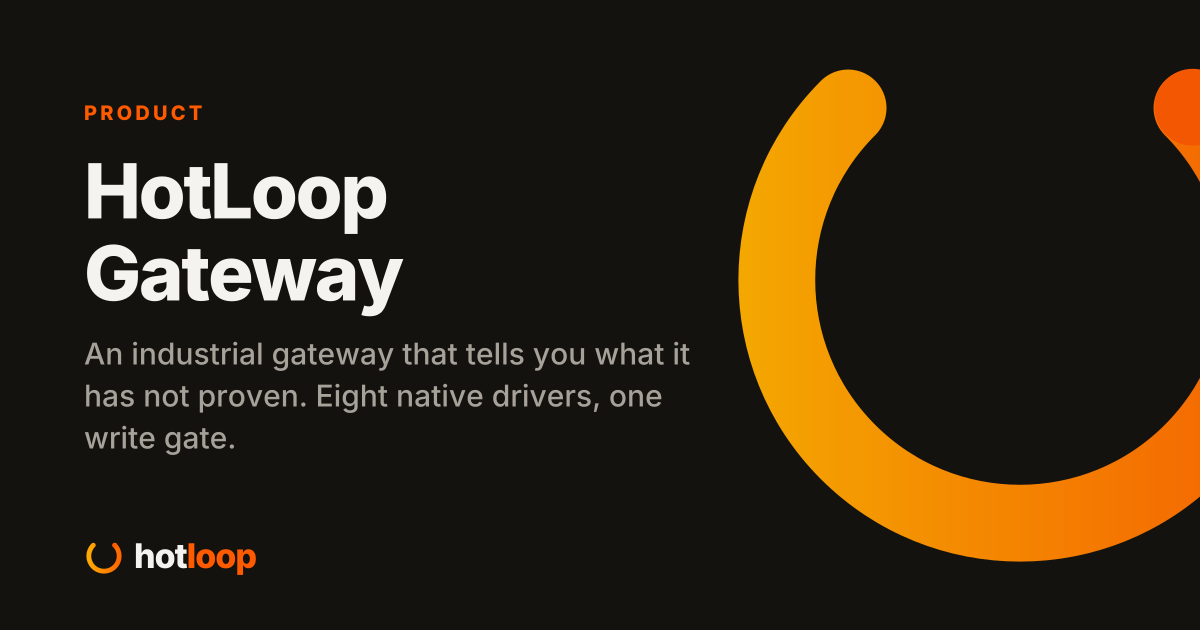
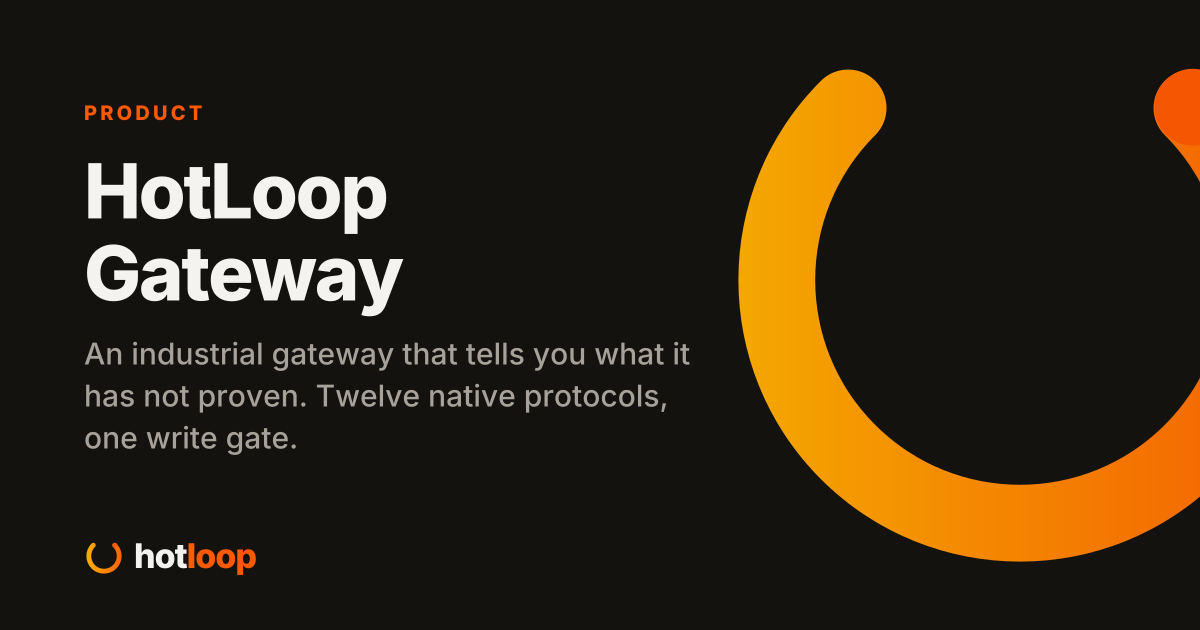
feat(site): core 4.19.8 is out, so the site says so (#54)
The site said 4.18.11. 4.19.4, 4.19.5 and 4.19.8 are the published releases, so each gets a note, and the ones that never published get none. The Gateway page has a 4.18.11 upgrade card for agent writes and scaled tags, CODESYS and OPC UA PubSub join the protocol catalog with what they were and were not proven against, and 4.19.8 being amd64 only is on every product page. IoT and Edge stop calling the current release their first, and the Transmitter page no longer says core's subscriber is not in a release.

Changed region(s): [[0.2467, 0.6032, 0.555, 0.6635], [0.0617, 0.6635, 0.2467, 0.7238]]

diff --git a/src/lib/products.ts b/src/lib/products.ts
@@ -13,7 +13,12 @@
 export type Status = 'released' | 'unverified' | 'main' | 'building' | 'planned';
 
 // The one published version. Change it here when the next release ships.
-export const CURRENT = '4.18.11';
+export const CURRENT = '4.19.8';
+
+// The last release built for every architecture. 4.19.8 is amd64 only, so the arm images on
+// :stable are this one's until the next release, which is a bump that builds them all. Change
+// it here when that bump ships, and drop the amd64-only sentences with it.
+export const LAST_MULTIARCH = '4.19.5';
 
 export const STATUS: Record<Status, { label: string; chip: 'ok' | 'info' | 'warn' | 'none' }> = {
   released: { label: `In ${CURRENT}`, chip: 'ok' },
@@ -117,19 +122,24 @@ export const IOT_FEATURES: Feature[] = [
   { name: 'Dashboards', status: 'released', note: 'A card builder with drag and drop: gauges, numbers, trends, entity lists, write buttons, script and recipe buttons, alarm lists, text, cameras, and a floor plan. Give a dashboard to the roles that need it, or bind it to one physical screen. One layout folds from twelve columns on a panel PC to one on a phone, so nobody ever builds the phone version. A card commands nothing itself, so a button still meets the write gate.' },
   { name: 'ISA-18.2 alarms', status: 'released', note: 'Includes rtn-unack, the alarm that cleared before anyone acknowledged it, so a trip that fixed itself is still there at shift change. Shelving ends, and unshelve brings the alarm back in the state it\'s really in.' },
   { name: 'Notifications', status: 'released', note: 'ntfy, Gotify, Discord (a webhook, or a bot), webhooks, and email. Press Acknowledge on an ntfy push or in the Discord bot and the alarm is acknowledged, signed and single use. Gotify and the Discord webhook are one way. Discord has only met a stand-in, not the real thing.' },
-  { name: 'AI agents (over MCP)', status: 'released', note: 'An agent can read the whole plant and touch only what you armed, through the write gate, and never without a stated reason, which goes in the system log next to the write.' },
+  { name: 'AI agents (over MCP)', status: 'released', note: 'An agent can read the whole plant and touch only what you armed, through the write gate, and never without a stated reason, which goes in the system log next to the write. Agent writes are on since 4.19.4, behind the same master switch as the screen, so with writes off nothing writes. The endpoint always has a token: a bare binary or Quadlet unit makes one at its first start, and hotloop mcp-token prints it.' },
+  { name: 'Writes to scaled tags land right', status: 'released', note: 'Write 55.5 to a tag scaled by 0.1 and 555 goes in the register, where 55 used to. A count the register can\'t hold is refused instead of wrapping, and a recipe with a value that doesn\'t fit is refused whole before its first write. If anyone typed raw counts to work around the old behavior, that now sends ten times too much, so check your scaled tags before you upgrade.' },
   { name: 'MQTT and an embedded broker', status: 'released', note: 'Plain topics with JSON paths, Sparkplug B, and an optional broker in the same process, so one box can be the whole install.' },
   { name: 'The sun', status: 'released', note: 'Sunrise, sunset, dawn, dusk, and the sun\'s height and bearing, worked out on the box from the site\'s latitude and longitude, plus a sun trigger with an offset. A site whose uplink died three weeks ago still turns the yard lights on at dusk.' },
   { name: 'MQTT discovery', status: 'released', note: 'ESPHome, Zigbee2MQTT, Tasmota, and Shelly Gen2 and later show up on their own, as read-only devices, on the embedded broker or any other. Nothing is armed until a person accepts the device and arms each point, so a device announcing itself never earns the right to flip a relay. Proven against recordings of real devices, not yet a bench of them.' },
   { name: 'Network discovery', status: 'released', note: 'mDNS and SSDP announcements are overheard, and DHCP is heard if the deployment allows it. Finds land next to the MQTT devices with what they are and how HotLoop could talk to them. Probing stays off until a network is named, because a port sweep has knocked over PLCs. Nothing is added by itself.' },
   { name: 'Broker logins with rules', status: 'released', note: 'A twelve dollar plug\'s login can\'t publish to the boiler\'s command topic. Logins made in HotLoop carry publish and subscribe rules from a profile, checked on every publish, subscription, and outgoing message. Logins from HOTLOOP_BROKER_USERS are unrestricted, as before.' },
   { name: 'Historian targets', status: 'released', note: 'Every reading also goes to the plant\'s own database: PostgreSQL and TimescaleDB, SQL Server, InfluxDB 2 and 3, MySQL and MariaDB. Same readings, same deadband, same quality. Polling never waits for a target, and one that falls behind catches up from HotLoop\'s own history.' },
+  { name: 'A Kafka event stream', status: 'released', note: 'Readings and the system log go to any broker that speaks the Kafka API, Apache Kafka and Redpanda included, as one more kind of historian target, with TLS and SCRAM-SHA-256, SCRAM-SHA-512 or PLAIN. It is at least once, so a reading can arrive twice after an outage, and events have no catch-up. Proven against Kafka 4.4.0 and Redpanda 26.2.6, not Confluent Cloud, MSK or Event Hubs. The Edge Relay doesn\'t carry it.' },
   { name: 'SQLite or PostgreSQL, your pick', status: 'released', note: 'The database is a setting. A Pi can run any product on a SQLite file with no second container and no 300 MB database image on the SD card. Moving between databases is a backup and a restore.' },
   { name: 'Updates that roll themselves back', status: 'released', note: 'Quadlet boxes follow the stable tag and update themselves, and an update that can\'t pass its healthcheck is rolled back instead of reported as a success. On Helm (Kubernetes) you run the upgrade. Rolling back is only safe because migrations only add.' },
-  { name: 'Every protocol driver', status: 'released', note: 'OPC UA, Modbus, MQTT and Sparkplug B, EtherNet/IP, S7comm, MTConnect, HTTP, SNMP, BACnet/IP, and UniFi. Protocols don\'t split the products, so nobody runs the Gateway just to reach one PLC.' },
+  { name: 'Every protocol driver', status: 'released', note: 'OPC UA, CODESYS, OPC UA PubSub, Modbus, MQTT and Sparkplug B, EtherNet/IP, S7comm, MTConnect, HTTP, SNMP, BACnet/IP, and UniFi. Protocols don\'t split the products, so nobody runs the Gateway just to reach one PLC.' },
+  { name: 'CODESYS, by the names the programmer gave the variables', status: 'released', note: 'A CODESYS runtime is read and written through its own OPC UA server, from the application\'s Symbol Configuration, so a tag is Application.GVL_Line.rTemp and not a node id. A download or a restart reads bad with the reason and comes back with no hands. Proven against a real 4.22.0.0 runtime in a container, including a program of over a hundred thousand variables read in 2.4 seconds. Not run on a physical controller.' },
+  { name: 'OPC UA PubSub over UADP', status: 'released', note: 'A device with the protocol opcua-pubsub listens for a publisher\'s DataSets over UDP, unicast or multicast, and a lost message marks that writer\'s tags uncertain until its next key frame. Proven against open62541 in both directions. Not yet against a CODESYS, Siemens or Beckhoff publisher, over a router, or with message security, which is refused by name.' },
   { name: 'UniFi, read-only', status: 'released', note: 'Devices, ports, PoE, WAN failover, and clients as tags, and a quiet PLC tells you which switch port it\'s on. WAN health comes from the console\'s own checks, so a backup link that\'s been dead for two days reads dead. Read on two real consoles, though a PoE draw above zero has not been seen yet. Nothing writes to a console yet.' },
   { name: 'UniFi screens and events', status: 'released', note: 'An overview with the WAN strip, a topology map that zooms and pinches and is laid out the same way every time, switch faceplates with port traffic traces, clients, networks, and WiFi, one button that makes the usual alarms, and the console\'s event stream so a switch dropping off lands in the logbook in seconds. An agent can ask over MCP for the topology and the latest events. Proven against a lab controller, with touch emulated, and not yet looked at on real gear.' },
   { name: 'UniFi writes', status: 'planned', note: 'Writes through the gate, starting with the locate LED. Then Protect, Access and PDUs, each only after it has run on real gear. Nothing writes to a console today.' },
+  { name: 'Hardware access and hostNetwork', status: 'released', note: 'Every chart takes hostNetwork, off by default, for a pod that has to hear what its node hears, like UDP multicast on the node\'s loopback. Since 4.19.7 the charts also ship with the node\'s USB devices and Bluetooth socket mounted for what plugs in later, which makes the pod root on the node. Three switches turn that off. HotLoop has no Bluetooth, Z-Wave or USB serial code of its own yet, and Zigbee comes through Zigbee2MQTT over MQTT.' },
   { name: 'Backups and restore', status: 'released', note: 'Pure Go over the database connection, in IoT, Edge, and the Gateway. It\'s also how you move between them, so it has to work every time.' },
 ];
 
@@ -138,6 +148,7 @@ export const EDGE_FEATURES: Feature[] = [
   { name: 'Store-and-forward', status: 'released', note: 'A dead link leaves no hole in the historian upstream: it buffers and replays in order, flagged historical. Publishes upstream as a Sparkplug B edge node. Off until you switch edge publishing on.' },
   { name: 'Runs with the WAN dead', status: 'released', note: 'A real Edge was booted with its uplink pointed at a link that eats every packet, and the screen, a write, a script, a recipe, an automation, and an alarm all worked. A box rebooted mid-outage used to crash-loop. The queue holds messages in memory first and uses disk only when the broker stops confirming, replays oldest first, and is capped at 64 MiB by default.' },
   { name: 'OPC UA server', status: 'released', note: 'The SCADA you already own sees every tag without a new driver. Read-only and secured, and Ignition 8.3.9 reads it end to end. Off until you switch it on.' },
+  { name: 'OPC UA PubSub publisher', status: 'released', note: 'Edge can publish the tags a layout names as UADP, key frames when values change and keep alives when they don\'t. A bad tag goes out as its status, never as its last value. Off until HOTLOOP_UADP_PUBLISH_ENABLED is set, and not in IoT, which has no OPC UA server.' },
   { name: 'Panel mode', status: 'released', note: 'A dashboard bound to a physical screen opens full bleed at /?screen=name, with no header, no tabs, and bigger touch targets, and it works against the box with the uplink down. That comes with the dashboards, so IoT and the Gateway have it too. It is not something only Edge has.' },
   { name: 'HMI symbols, faceplates and PIN sign-in', status: 'planned', note: 'The ISA-101 symbol library, the motor and valve faceplates and PIN sign-in for shared panels. None of it is built.' },
 ];

diff --git a/src/content/releases/core/4.19.4.md b/src/content/releases/core/4.19.4.md
@@ -1,0 +1,31 @@
+---
+product: core
+version: "4.19.4"
+date: 2026-11-05
+published: true
+summary: "Agents can write now and the MCP endpoint always has a token, a write to a scaled tag finally lands in the register the way you meant it, and a CODESYS runtime is read by its own variable names. Kafka and OPC UA PubSub are in, and so is hostNetwork."
+highlights:
+  - "MCP is on in every product and it writes. allowMcpWrites defaults to true, behind the same master switch as the screen, so with allowWrites off nothing writes, agents included. The endpoint is never open: a bare binary or a Quadlet unit makes a token at its first start, and hotloop mcp-token prints it."
+  - "A value written to a scaled tag lands in the register as the tag's own units mean: 55.5 on a tag scaled by 0.1 puts 555 in the register, where it put 55. A count the register can't hold is refused instead of wrapping, and a recipe with a value that doesn't fit is refused whole before its first write."
+  - "CODESYS, by the names the programmer gave the variables. HotLoop reads and writes a CODESYS runtime through its own OPC UA server, from the Symbol Configuration. Proven on a real 4.22.0.0 runtime in a container, including a program of over a hundred thousand variables read in 2.4 seconds. Not on a physical controller."
+  - "Every OPC UA device keeps to the server's OperationLimits instead of asking for 200 nodes a request. A CODESYS runtime publishes 100 and refuses more, and the old driver answered by calling every discovered tag a float."
+  - "A Kafka event stream: readings and the system log go to Apache Kafka, Redpanda or anything that speaks the Kafka API, as a new kind of historian target, with TLS and SCRAM or PLAIN. At least once, and events have no catch-up."
+  - "OPC UA PubSub over UADP. A device with the protocol opcua-pubsub subscribes to a publisher over UDP, and Edge and the Gateway can publish tags as UADP. Proven against open62541 in both directions, not yet against a CODESYS, Siemens or Beckhoff publisher. No message security."
+  - "A store install signs you in as yourself, from the store dashboard's signed assertion, and with the OIDC settings on an OIDC login on /mcp makes the audit name the person. Both are off unless you set them."
+  - "hostNetwork, off by default, in every chart with a pod, for a pod that has to hear what its node hears, like UDP multicast on the node's loopback."
+  - "Fixed: a pin on the board no longer replaces the board with one tag, a stalled OPC UA subscription is noticed, a PLC that goes silent with its socket open is down and not degraded, a credential typed into a URL is encrypted at rest, every time the API writes is UTC, the 31st no longer skips a monthly partition, and a switch faceplate fits a phone."
+breaking:
+  - "Agents can write after this upgrade, wherever an operator could, if allowWrites is on and you never set allowMcpWrites. A deployment that saved allowMcpWrites false stays off. Set it false before you upgrade if you want agents read-only."
+  - "An agent pointed at /mcp on a bare or Quadlet install with no token stops working until you give it the one hotloop mcp-token prints. That is on purpose."
+  - "If anyone has been typing raw counts into a scaled tag to get the right number, typing 555 to get 55.5, that now sends 5550. Type the engineering value, and change recipes and automations that wrote counts in the same step as the upgrade."
+  - "Every time the API writes is UTC. A script that parsed your local offset now gets Z."
+  - "Migration 0026 adds an options column to the historian targets, empty for every target that exists. It adds about 5 MiB to every product with a database. The Edge Relay doesn't carry the Kafka client."
+---
+
+4.19.0, 4.19.1, 4.19.2 and 4.19.3 were tagged and never published, so nothing named any of them exists and `stable` never moved to one. This is the first release with everything their notes list. Two of them died in the Test job on bugs in the product, a discovery listener that said it was up before it could hear and a process that stopped the next run of a script with its own stop, and both are fixed here.
+
+The first thing to read is what changes on a running plant: agents write now, and a scaled tag takes the number you meant. [Upgrading from 4.18.11](https://docs.hotloop.io/gateway/upgrading/#upgrading-from-41811) has both, with the command.
+
+This build is amd64 only, so it could reach production and read stable before the arm images were built. [4.19.5](/releases/core/#core-4.19.5) is the build that adds them, and it is the same code.
+
+What isn't proven: CODESYS has not been run on a physical controller, OPC UA PubSub has met open62541 and nothing from CODESYS, Siemens or Beckhoff, and the Kafka stream has met Apache Kafka 4.4.0 and Redpanda 26.2.6 and not Confluent Cloud, Amazon MSK or Azure Event Hubs. Everything the 4.18.11 notes list as unproven still is.

diff --git a/src/content/releases/core/4.19.8.md b/src/content/releases/core/4.19.8.md
@@ -1,0 +1,22 @@
+---
+product: core
+version: "4.19.8"
+date: 2026-11-08
+published: true
+summary: "The Logbook's Older entries button keeps its page, and every tag picker searches the whole plant. It also carries 4.19.6's and 4.19.7's changes, because neither was ever published."
+highlights:
+  - "The Logbook's Older entries button no longer loses its page to a live refresh. A log line that landed while an older page was on its way sent the screen back for the newest page, and the older answer was thrown away, so the button did nothing. The refresh now waits for the older page to land."
+  - "Every place that picks a tag searches the whole plant, and none is cut at a number. On a tester with 2232 tags on three devices the Tags screen showed 200, all from the first device, and a device's drawer said it had no tags beside a card that said 1105. GET /api/tags takes a limit up to 5000, an offset and an X-Total-Count header, and the dashboard card editor's tag fields are a search the server does as you type."
+  - "The live feed sends only what changed, compressed. A page on an 85 KB/s link used to fall minutes behind. On a link read at 300 KB/s with every tag changing every 250 ms, a page was 27.8 seconds behind in 4.19.5 and 3.7 seconds behind in 4.19.6's build, which is in this one."
+  - "Every chart ships with hardware access on: the node's USB devices and Bluetooth socket are mounted, so what plugs in later is visible with no hand edit. It makes the pod root on the node, and three switches turn it off. HotLoop has no Bluetooth, Z-Wave or USB serial code of its own yet."
+  - "The device poll counts and the Board's numbers tick, and the UniFi map and the Entities strip no longer write the word null."
+breaking:
+  - "The pod is privileged and runs as root on a plain install, because the hardware switches default on. With hardware.privileged=false, hardware.usbDevices.enabled=false and hardware.bluetooth.enabled=false the render is, line for line, the pod 4.19.6 rendered."
+  - "GET /api/tags answers a limit above 5000 with a 400 and never an answer with fewer. The history lists' ceilings are the ceilings now, where a limit over one was quietly a tenth of what was asked."
+---
+
+4.19.6 and 4.19.7 were tagged and never published. Each died in the Test job on a test that was telling the truth about a real bug, the second on a Logbook button that lost its page, and 4.19.8 carries everything both of their notes list, plus the fix. Nothing named 4.19.6 or 4.19.7 exists, and `stable` never moved to either.
+
+This build is amd64 only, so it can reach production and read stable first. The next release is one small bump that builds the arm images, and `stable` keeps the arm images it holds, which are 4.19.5's.
+
+One known gap: a Kafka or Redpanda history target whose broker refuses every write for lack of disk reports "records have timed out before they were able to be produced" and not why. The readings are not lost. The target keeps the batch, retries with a growing wait, and catches up from HotLoop's own history when the broker answers. If a Redpanda target is down with that message, look at the broker's log and its disk.

diff --git a/src/content/releases/core/4.19.5.md b/src/content/releases/core/4.19.5.md
@@ -1,0 +1,16 @@
+---
+product: core
+version: "4.19.5"
+date: 2026-11-05
+published: true
+summary: "The multi-arch build of 4.19.4 and nothing else. The same code, with the arm64 images for the Gateway and the arm64 and arm/v7 images for Edge, IoT and the Edge Relay."
+highlights:
+  - "No fix, no feature, no change in behavior. 4.19.4 was built for amd64 alone so it could reach production first, and this is the small bump that builds every architecture."
+  - "The Gateway is amd64 and arm64. Edge, IoT and the Edge Relay are amd64, arm64 and arm/v7. A box on arm moves to 4.19.4's code by pulling stable."
+  - "All four charts are at 4.19.5, with every earlier version still in the chart index."
+breaking: []
+---
+
+Read [4.19.4's notes](/releases/core/#core-4.19.4) for everything that changed since 4.18.11. This release changes none of it.
+
+It is the last build of every architecture so far. 4.19.8 is amd64 only again, and `stable` keeps these arm images until the next release builds them all.
